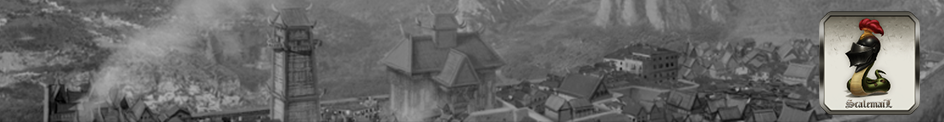
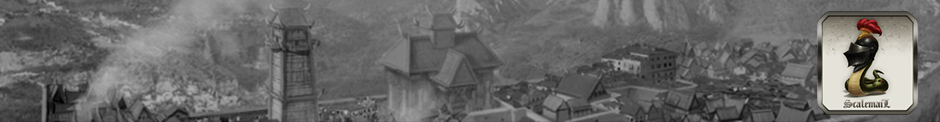
border styling

diff --git a/app/assets/stylesheets/application.css.scss b/app/assets/stylesheets/application.css.scss
@@ -26,23 +26,129 @@ $title-color: #e0e0e0;
 
 body {
 
-	background: url('background.png') no-repeat 50% 0;
+	background: url('nav-header.png') no-repeat 50% 0, url('background.png') no-repeat 50% 0;
 	background-color: #000;
 }
 .navigation-wrapper {
+	height: 178px;
+	padding-top: 122px;
 	font-family: $serif;
+	background: url('menu-panel.png') no-repeat 50% 102%;
+	overflow: visible;
 
-	ul {
+	/*ul {
 		list-style: none;
 		margin: 0;
 		padding: 0;
 		display:inline;
-	}
-
-	li {
+		position: relative;
+		
+		> li {
 		display: inline;
-	}
+		}
 
+		a {
+			display: block;
+			text-decoration: none;
+		}
+
+		ul {
+			display:none;
+			position:absolute;
+			top:100%;
+			left:0;
+			background:#fff;
+			padding:0;
+
+			li {
+				float:none;
+				width:200px;
+			}
+		}
+
+	}*/
+
+
+}
+
+/*#primary_nav_wrap
+{
+	margin-top:15px
+}*/
+
+#primary_nav_wrap ul
+{
+	list-style:none;
+	position:relative;
+	margin:0;
+	padding:0
+}
+
+#primary_nav_wrap ul a
+{
+	display:block;
+	color: #c48e38;
+	text-decoration:none;
+	font-weight:300;
+	line-height:32px;
+	font-size: 18px;
+	padding:10px 10px 5px;
+}
+
+#primary_nav_wrap ul li
+{
+	position:relative;
+	float:left;
+	margin:0;
+	padding:0
+}
+
+
+// #primary_nav_wrap ul li:hover
+// {
+// 	border-bottom: 2px #be814b solid;
+// }
+
+#primary_nav_wrap ul ul
+{
+	display:none;
+	position:absolute;
+	top:100%;
+	left:0;
+	background: #141d2e;
+	padding:0;
+	border: 1px solid #be814b;
+}
+
+#primary_nav_wrap ul ul li
+{
+	float:none;
+	width:200px
+}
+
+#primary_nav_wrap ul ul li:hover a
+{
+	color: darken( white, 10%);
+
+}
+	
+
+#primary_nav_wrap ul ul a
+{
+	line-height:120%;
+	padding:10px 15px;
+	color: darken( white, 25%);
+}
+
+#primary_nav_wrap ul ul ul
+{
+	top:0;
+	left:100%
+}
+
+#primary_nav_wrap ul li:hover > ul
+{
+	display:block
 }
 
 .left-menu {
@@ -57,14 +163,16 @@ body {
 	overflow: hidden;
 }
 
-.navigation-wrapper {
-	height: 50px;
-	background-color: $dark-blue;
+#home {
+	top:-3px;
 }
+
 
 .hero-wrapper {
 	overflow: hidden;
 	text-align: center;
+	position: relative;
+	z-index: -99;
 }
 
 .img-wrapper {
@@ -77,6 +185,32 @@ body {
 	@extend %content-bg;
 	padding: 50px 50px 20px 50px;
 	margin-bottom: 20px;
+}
+
+.container.main {
+	position: relative;
+	// z-index: -10;
+	overflow: visible;
+}
+.leaf-overlay-top {
+	width: 960px;
+	height: 189px;
+	// background: url('leaf.png') no-repeat;
+	z-index: 100;
+	position: absolute;
+	// bottom: 5px;
+	top: -8px;
+	left: 2px;
+}
+.leaf-overlay-bottom {
+	width: 960px;
+	height: 189px;
+	// background: url('leaf.png') no-repeat;
+	z-index: 100;
+	position: absolute;
+	// bottom: 5px;
+	bottom: 39px;
+	left: -2px;
 }
 
 .article {
@@ -105,6 +239,8 @@ body {
 	.link {
 		margin-top: 10px;
 		float:right;
+		position: relative;
+		z-index: 999999;
 	}
 }
 
@@ -128,6 +264,11 @@ div.pagination {
 	margin: 0;
 }
 
+.main-wrapper .pagination {
+	position: relative;
+	z-index: 99999;
+}
+
 .article-main {
 	@extend %content-bg;
 	padding-bottom: 60px;
@@ -148,3 +289,5 @@ div.pagination {
 	height: 280px;
 	background-color: black;
 }
+
+
